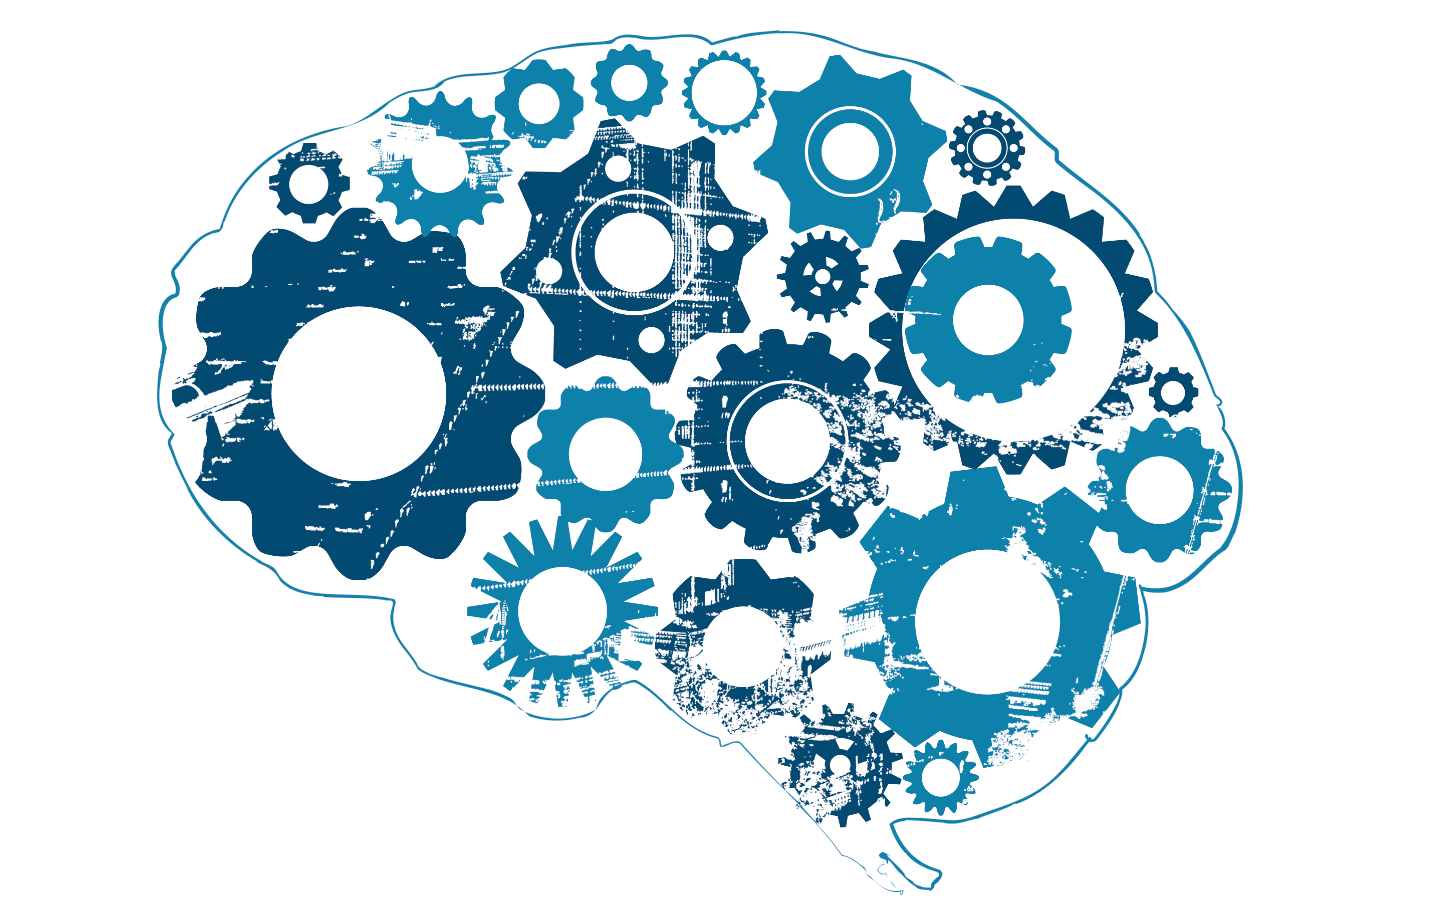
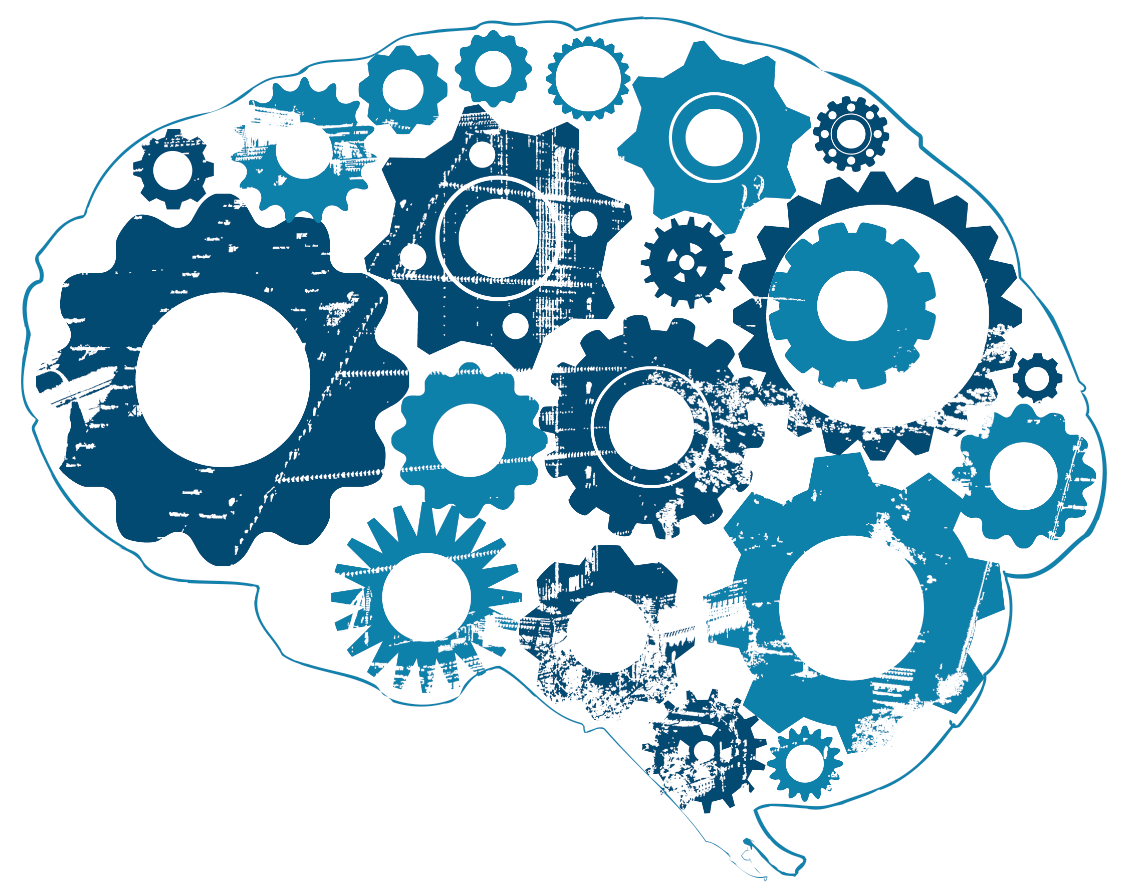
finally a layout where the images are ok and rearranged all slides

diff --git a/index.html b/index.html
@@ -29,104 +29,89 @@
 <body>
 
 <div id="jmpress">
-<article id="title" class="is24-slide slide step" data-x="-2000">
-<!--
-    <object data="img/Gears.svg" type="image/svg+xml"
-    style="vertical-align: top;" width="200" height="200"></object>
--->
-    <img src="img/DevOpsDays_ohne.png" class="bild" style="opacity: 0.3; left:250px"/>
+
+
+<article id="title" class="is24-slide slide step">
+    <img src="img/DevOpsDays_ohne.png" class="gearsbild"/>
     <h1>DevOps 3.0</h1>
     Where we are now and what we found out on the way
 
-    <!--
-    <article style="position: absolute; bottom: 50px;">
-    <li></li>
-    -->
-    <article>
-        <p style="height: 2em;"> </p>
-        
-        <br/>
-	<br/>
-        Felix Sperling, Marcel Wolf<br/>
-        Berlin DevOpsDays 2013 | 27.05.2013
-    </article>
+   
+    <p class="footer">Felix Sperling, Marcel Wolf<br/>
+    Berlin DevOpsDays 2013 | 27.05.2013</p>
 </article>
 
-<article id="introduction" class="step" data-x="-1000" data-y="+1000">
+<article id="introduction1" class="step" data-x="" data-y="+1000">
     <h1>Speakers</h1>
 
     <h2>Felix Sperling, @felixsperling</h2>
     <ul>
         <li>Developer</li>
-	<li>former embedded, lowlevel, RTOS dev</li>
+	<li>former embedded, low-level, RTOS dev</li>
 	<li>now Java developer @ IS24</li>
 	<li>2 months as Ops, in Application Management team</li>
     </ul>
 </article>
 
-<article id="introduction" class="step" data-x="-3000" data-y="+1000">
+<article id="introduction2" class="step" data-x="" data-y="+2000">
     <h1>Speakers</h1>
 
     <h2>Marcel Wolf</h2>
     <ul>
         <li>some text</li>
     </ul>
-
 </article>
 
 
-<article id="" class="step" data-x="-4000">
+<article id="Overview" class="step" data-y="+3000">
     <h1>Overview of Organisation</h1>
     <ul>
-    <li>~40 Ops and ~150 Devs</li>
-    <li>4 Ops teams and 22 Dev teams</li>
-    <li>and external partners, agencies, bought software</li>
-    <li>Interface between Dev and Ops world: the Application Management team</li>
+      <li>~40 Ops and ~150 Devs</li>
+      <li>4 Ops teams and 22 Dev teams</li>
+      <li>and external partners, agencies, bought software</li>
+      <li>Interface between Dev and Ops world: the Application Management team</li>
     </ul>
 </article>
 
-<article id="" class="step slide" data-x="-5000">
+<article id="DevOpsthings" class="step" data-x="+2000" data-y="+1000">
     <h1>DevOps things we do</h1>
 </article>
 
-<article id="bla" class="step" data-x="-5000" data-y="-1000">
+<article id="config" class="step" data-x="+2000" data-y="+2000">
     <h1>config SVN</h1>
     <p data-jmpress="fade after prev" id="item3">everybody can view and change all configuration
     </p>
 </article>
 
-<article class="step" data-x="-4000" data-y="-1000">
-    <h1 class="box">self-service virtualisation</h1>
+<article id="selfservice" class="step" data-x="+2000" data-y="+3000">
+    <h2 class="box footer">self-service virtualisation</h2>
     <img src="img/selfserviceairport.png" class="bild"/>
 </article>
 
-<article id="configsvn" data-x="-3000" data-y="-1000" class="step slide">
+<article id="permissions" data-x="+4000" data-y="+1000" class="step">
     <h1>I, a Dev, was offered prod permissions</h1>
     <h2>wtf?!</h2>
 </article>
 
-<article id="configsvn2" data-x="-2000" data-y="-1000" class="step slide">
+<article id="trust" data-x="+4000" data-y="+2000" class="step">
     <h1>I earned their trust</h1>
-
 </article>
 
-<article id="configsvn3" data-x="-2000" data-y="-2000" class="step slide">
-    <br/><br/><br/><br/><br/><br/><br/><br/>
-    <h1 class="box">overcome prejudices</h1>
+<article id="prejudices" data-x="+4000" data-y="+3000" class="step">
+    <h2 class="box footer">overcome prejudices</h2>
     <img src="img/Rob_Portman_portrait.jpg" class="bild"/>
 </article>
 
-<article id="configsvn4" data-x="-2000" data-y="-3000" class="step slide">
-    <br/><br/><br/>
-    <h1 class="box">make communication easy</h1>
+<article id="communication" data-x="+4000" data-y="+4000" class="step">
+    <h2 class="box footer">make communication easy</h2>
     <img src="img/tincanphone.jpg" class="bild"/>
 </article>
 
-<article id="configsvn5" data-x="-2000" data-y="-4000" class="step slide">
+<article id="pain" data-x="+4000" data-y="+5000" class="step">
     <h1>graph: pain vs measures</h1>
 </article>
 
-<article id="configsvn6" data-x="-2000" data-y="-5000" class="step slide">
+<article id="phases" data-x="+4000" data-y="+6000" class="step">
     <h1>phases of new tools</h1>
     <ul>
       <li>explain 1st time</li>
@@ -136,43 +121,39 @@
     </ul>
 </article>
 
-<article id="7" data-x="-1000" data-y="-5000" class="step slide">
+<article id="errorculture" data-x="+4000" data-y="+7000" class="step">
     <h1>right error culture</h1>
 </article>
 
-<article id="8" data-x="0" data-y="-5000" class="step slide">
+<article id="8" data-x="+6000" data-y="+1000" class="step">
     <h1>...</h1>
 </article>
 
-<article id="9" data-x="1000" data-y="-5000" class="step slide">
+<article id="responsibility" data-x="+6000" data-y="+2000" class="step">
     <h1>responsibility</h1>
 </article>
 
-<article id="10" data-x="2000" data-y="-5000" class="step slide">
-    <div class="box">
-    <h1>identification</h1>
+<article id="identification" data-x="+6000" data-y="+3000" class="step">
+    <div class="box footer">
+    <h2>identification</h2>
     <p>This is the bridge that I build</p>
     </div>
     <img src="img/glienickerbruecke.jpg" class="bild"/>
 </article>
 
-<article id="11" data-x="3000" data-y="-5000" class="step slide">
+<article id="11" data-x="+6000" data-y="+4000" class="step">
     <h1>One team doing everything</h1>
     <h2>Can that work?</h2>
 </article>
 
-<article id="12" data-x="4000" data-y="-5000" class="step slide" 
- >
-<!--
-style="background: url(img/automation.jpg)"
--->
-    <h1 class="box">Automation to the rescue</h1>
+<article id="Automation" data-x="6000" data-y="5000" class="step">
+    <h2 class="box footer">Automation to the rescue</h2>
     <img src="img/automation.jpg" class="bild"/>
 </article>
 
 
 
-<article id="19" data-scale="13" data-x="0" data-y="0" class="step">
+<article id="19" data-scale="12" data-x="3000" data-y="3000" class="step">
  
 </article>
 
@@ -192,13 +173,6 @@ style="background: url(img/automation.jpg)"
             agent.play("IdleSnooze");
         });
     </script>
-
-    <div id="yadtshell" data-x="-3000" data-y="-2000" class="step slide">
-        <h1>Some headline</h1>
-        <p>describtion</p>
-
-        <p>iam a tool</p>
-    </div>
 
     <div id="thanks" class="step" data-scale="8"
         data-x="0" data-y="3000" data-z="0"

diff --git a/css/is24.css b/css/is24.css
@@ -260,8 +260,8 @@ h4 {
 
 /** COMMON STEP STYLES **/
 .step, .nested-step {
-	width: 900px;
-	min-height: 50px;
+	width: 1000px;
+	min-height: 800px;
 	padding: 40px;
 	z-index: 2;
 
@@ -542,7 +542,7 @@ h4 {
 
 
 .is24-slide {
-    background: white url(is24.png) bottom right no-repeat;
+    background: url(is24.png) bottom right no-repeat;
     z-index: -1;
 } 
 
@@ -576,10 +576,29 @@ li ul li {
   padding: 0.5em
 }
 
+.footer {
+  position:absolute;
+  bottom: 2em;
+}
+
+.gearsbild {
+   z-index:-10; 
+   position:absolute;
+   right: 0px;
+   top: 0px; 
+   width: 70%;
+   opacity: 0.3;
+}
+
 .bild {
    z-index:-10; 
    position:absolute; 
-   top: -200px; 
-   left: -80px; 
+   top: 0px; 
+   left: 0px; 
    width: 100%;
+}
+
+
+article {
+   border: 1px solid #000;
 }
